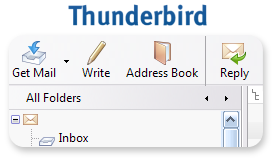
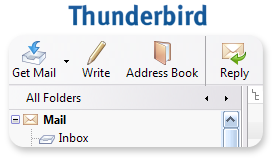
Bug #345887 --> thunderbird theme update for qute

Changed region(s): [[0.1455, 0.7188, 0.2618, 0.7812], [0.1455, 0.8438, 0.2036, 0.9375]]

diff --git a/comm/mail/themes/qute/mail/messenger.css b/comm/mail/themes/qute/mail/messenger.css
@@ -63,54 +63,47 @@ list-style-image: url("chrome://global/skin/throbber/Throbber-small.gif");
 
 /* ::::: toolbarbutton ::::: */
 
-toolbarbutton {
+.toolbarbutton-1 {
   padding-top: 5px;
   padding-bottom: 6px;
   -moz-padding-start: 4px;
   -moz-padding-end: 5px;
 }
 
-.toolbarbutton-icon {
-  -moz-margin-end: 0;
-}
-
-.toolbarbutton-menu-dropmarker {
-  -moz-padding-start: 3px;
-}
-
-
-.toolbarbutton-text {
-  margin: 0 !important;
-  text-align: center;
-}
-
-toolbarbutton:hover:active,
-toolbarbutton[open="true"] {
+.toolbarbutton-1:hover:active,
+.toolbarbutton-1[open="true"] {
   padding-top: 6px;
   padding-bottom: 5px;
   -moz-padding-start: 5px;
   -moz-padding-end: 4px;
 }
 
-toolbarbutton[disabled="true"],
-toolbarbutton[disabled="true"]:hover,
-toolbarbutton[disabled="true"]:hover:active,
-toolbarbutton[disabled="true"][open="true"] {
+.toolbarbutton-1[disabled="true"],
+.toolbarbutton-1[disabled="true"]:hover,
+.toolbarbutton-1[disabled="true"]:hover:active,
+.toolbarbutton-1[disabled="true"][open="true"] {
   padding-top: 5px;
   padding-bottom: 6px;
   -moz-padding-start: 4px;
   -moz-padding-end: 5px;
 }
 
-toolbar[mode="full"] .toolbarbutton-1 {
-  min-width: 50px;
-}
-
-/* ..... checked state ..... */
-
-toolbarbutton[checked="true"] {
+.toolbarbutton-1[checked="true"] {
   padding-top: 6px !important;
   padding-bottom: 5px !important;
   -moz-padding-start: 5px !important;
   -moz-padding-end: 4px !important;
+}
+
+.toolbarbutton-1 .toolbarbutton-icon,
+#FormatToolbar .toolbarbutton-icon {
+  -moz-margin-end: 0px;
+}
+
+.toolbarbutton-menu-dropmarker {
+  -moz-padding-start: 3px;
+}
+
+toolbar[mode="full"] .toolbarbutton-1 {
+  min-width: 50px;
 }

diff --git a/comm/mail/themes/qute/mail/preferences/preferences.css b/comm/mail/themes/qute/mail/preferences/preferences.css
@@ -52,18 +52,18 @@ radio[pane] {
   -moz-appearance: none;
   background-color: transparent;
   background-position: center bottom;
-  background-repeat: no-repeat;
+  background-repeat: repeat-x;
   min-width: 80px;
 }
 
 radio[pane]:hover {
-  background-color: rgb(95, 130, 189);
+  background-color: rgb(94, 138, 188);
   background-image: url("chrome://messenger/skin/preferences/hover.png");
   color: white;
 }
 
 radio[pane][selected="true"] {
-  background-color: white;
+  background-color: rgb(174, 198, 226);
   background-image: none;
   background-image: url("chrome://messenger/skin/preferences/selected.png");
   color: black;

diff --git a/comm/mail/themes/qute/mail/mailWindow1.css b/comm/mail/themes/qute/mail/mailWindow1.css
@@ -231,6 +231,7 @@ treechildren::-moz-tree-image(junkStatusCol, notjunk) {
 
 treechildren::-moz-tree-image(subjectCol) {
   -moz-margin-end: 2px;
+  list-style-image: url("chrome://messenger/skin/icons/blank16.png");
 }
 
 treechildren::-moz-tree-image(subjectCol, dummy) {
